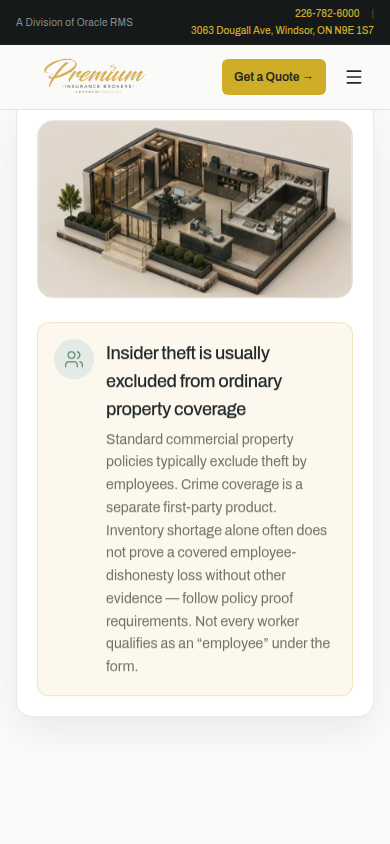
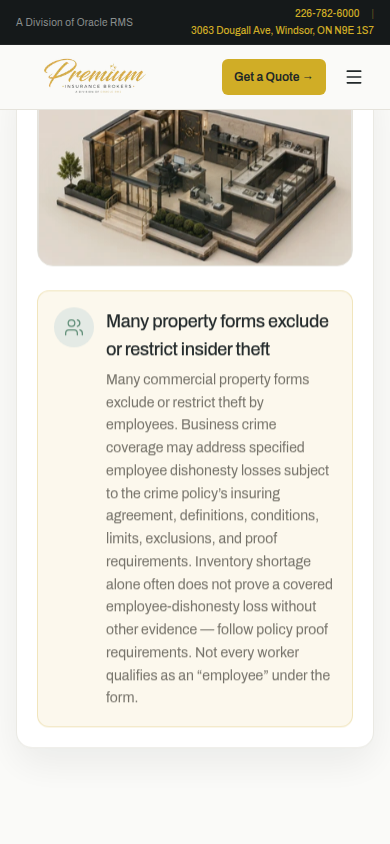
fix(final-d): precision copy tightening before freeze
- Crime: soften property-form generalization; remove permanent-employee
  assumption from employee-definition FAQ
- EPL: clarify severance FAQ — statutory pay vs insured allegations
- Product Recall: trigger/expense precision in hero, explorer detail,
  and product-liability coordination consideration
- Regenerate literal claim dump and final-D QA artifacts
- Update verifier detailTitle expectation for Crime explorer state 0

PRECISION BASE: 7ac909c

Changed region(s): [[0.0923, 0.1232, 0.9231, 0.8318]]

diff --git a/src/data/product-pages/commercial-products-specialty.ts b/src/data/product-pages/commercial-products-specialty.ts
@@ -1410,7 +1410,7 @@ export const commercialProductSpecialtyPages: ProductPageContent[] = [
       "Crime and fidelity insurance for Windsor-Essex businesses — employee dishonesty, forgery, money and securities, and computer fraud through an independent broker.",
     headline: "Crime & Fidelity Insurance",
     subhead:
-      "Crime & Fidelity Insurance can address specified first-party losses involving employee dishonesty, theft, forgery, fraud, money and securities, or related crime events — depending on the policy form and the insuring agreements you purchase. It is not a surety bond, not cyber insurance for privacy or ransomware response, and not a substitute for ordinary commercial property coverage on stock and buildings. Standard property forms typically exclude theft by employees; crime coverage is the product that may respond to certain insider and defined fraud losses when wording, definitions, limits, and proof requirements are met. Computer fraud and social-engineering / fraudulent-instruction losses are not necessarily treated the same way — many forms require separate or specific wording, endorsements, limits, or sublimits for voluntary payment schemes. Premium Insurance Brokers can help Windsor–Essex businesses compare crime agreements against cash handling, payroll, client funds, and payment controls.",
+      "Crime & Fidelity Insurance can address specified first-party losses involving employee dishonesty, theft, forgery, fraud, money and securities, or related crime events — depending on the policy form and the insuring agreements you purchase. It is not a surety bond, not cyber insurance for privacy or ransomware response, and not a substitute for ordinary commercial property coverage on stock and buildings. Many commercial property forms exclude or restrict theft by employees; business crime coverage may address specified employee dishonesty losses subject to the crime policy’s insuring agreement, definitions, conditions, limits, exclusions, and proof requirements. Computer fraud and social-engineering / fraudulent-instruction losses are not necessarily treated the same way — many forms require separate or specific wording, endorsements, limits, or sublimits for voluntary payment schemes. Premium Insurance Brokers can help Windsor–Essex businesses compare crime agreements against cash handling, payroll, client funds, and payment controls.",
     quoteHref: QUOTE_BUSINESS,
     quoteLabel: "Get a Crime Quote",
     coverageIntro:
@@ -1421,9 +1421,9 @@ export const commercialProductSpecialtyPages: ProductPageContent[] = [
         shortLabel: "Employee Theft",
         description:
           "May help address certain direct loss of money, securities, or property caused by employee theft or dishonesty — where purchased and subject to the policy’s employee definition, conditions, and exclusions.",
-        detailTitle: "Insider theft is usually excluded from ordinary property coverage",
+        detailTitle: "Many property forms exclude or restrict insider theft",
         detailDescription:
-          "Standard commercial property policies typically exclude theft by employees. Crime coverage is a separate first-party product. Inventory shortage alone often does not prove a covered employee-dishonesty loss without other evidence — follow policy proof requirements. Not every worker qualifies as an “employee” under the form.",
+          "Many commercial property forms exclude or restrict theft by employees. Business crime coverage may address specified employee dishonesty losses subject to the crime policy’s insuring agreement, definitions, conditions, limits, exclusions, and proof requirements. Inventory shortage alone often does not prove a covered employee-dishonesty loss without other evidence — follow policy proof requirements. Not every worker qualifies as an “employee” under the form.",
         icon: Users,
       },
       {
@@ -1526,7 +1526,7 @@ export const commercialProductSpecialtyPages: ProductPageContent[] = [
       {
         question: "Who counts as an employee under a crime policy?",
         answer:
-          "The policy definition controls. Permanent employees are usually included; independent contractors, leased workers, owners, directors, and certain volunteers may be excluded or need specific wording. If non-employees handle cash or payment instructions, disclose that structure when quoting.",
+          "The policy’s definition of “employee” controls. How permanent employees, temporary workers, leased workers, independent contractors, owners, directors, and volunteers are treated can vary by form — do not assume a universal list of included or excluded persons. If non-employees handle cash, property, or payment instructions, disclose that structure when quoting.",
       },
       {
         question: "What information is needed to quote crime coverage?",
@@ -1649,7 +1649,7 @@ export const commercialProductSpecialtyPages: ProductPageContent[] = [
       {
         question: "Does EPL pay ESA termination pay or severance?",
         answer:
-          "Not as a substitute for statutory wages. Ontario’s Employment Standards Act, 2000 can require termination pay and, where applicable, severance pay as employer obligations. EPL may respond to certain wrongful-dismissal or related allegations under policy wording — it does not automatically pay statutory termination pay, severance pay, unpaid wages, vacation pay, or benefits. Keep employment obligations distinct from insured claims.",
+          "EPL should not be treated as insurance for ordinary statutory or contractual pay obligations. Ontario’s Employment Standards Act, 2000 can require termination pay and, where applicable, severance pay as employer obligations regardless of insurance. Depending on policy wording, EPL may respond to certain covered allegations arising from employment decisions — including defence costs or covered damages where applicable — but it does not automatically pay statutory termination pay, severance pay, unpaid wages, vacation pay, or benefits. Keep employment obligations distinct from insured claims.",
       },
       {
         question: "What types of employment allegations may be insured?",

diff --git a/src/data/product-pages/commercial-products-industry.ts b/src/data/product-pages/commercial-products-industry.ts
@@ -781,7 +781,7 @@ export const commercialProductIndustryPages: ProductPageContent[] = [
       "Product recall insurance for Windsor-Essex manufacturers and distributors — recall and withdrawal expense coverage distinct from product liability, subject to policy triggers.",
     headline: "Product Recall Insurance",
     subhead:
-      "Product recall insurance addresses specified first-party recall or withdrawal costs — and other scheduled expenses — only where the policy trigger and selected coverage apply. It is not the same product as product liability insurance. Product liability generally addresses certain third-party bodily injury or property-damage claims arising from products, subject to policy wording. Recall insurance is about the operational cost of getting product out of the market when an insured event is met: notification, transportation, storage, disposal, and — only where included — replacement, consultant or lab fees, crisis management, brand rehabilitation, or limited business interruption. A voluntary withdrawal, a regulator-involved recall, or a customer demand does not automatically trigger coverage. In Canada, most food recalls are company-led actions with Canadian Food Inspection Agency oversight, and the Minister of Health may order a mandatory food recall in defined circumstances; consumer products may involve Health Canada authorities under the Canada Consumer Product Safety Act — regulatory involvement alone does not mean the insurance will respond. Premium Insurance Brokers can help Windsor–Essex manufacturers, importers, and distributors compare recall expense forms against product type, traceability, and supply-chain role.",
+      "Product recall insurance addresses specified first-party recall or withdrawal costs — and other scheduled expenses — only where the policy trigger and selected coverage apply. It is not the same product as product liability insurance. Product liability generally addresses certain third-party bodily-injury or property-damage claims arising from products, subject to policy wording. Product recall insurance may address specified withdrawal or recall expenses when the policy’s covered trigger and selected coverage apply — such as notification, transportation, storage, disposal, and — only where included — replacement, consultant or lab fees, crisis management, brand rehabilitation, or limited business interruption. Whether a voluntary or government-directed recall is insured depends on the policy’s covered trigger, definitions, exclusions, and selected coverage — a voluntary withdrawal, regulator-involved recall, or customer demand does not automatically trigger coverage. In Canada, most food recalls are company-led actions with Canadian Food Inspection Agency oversight, and the Minister of Health may order a mandatory food recall in defined circumstances; consumer products may involve Health Canada authorities under the Canada Consumer Product Safety Act — regulatory involvement alone does not mean the insurance will respond. Premium Insurance Brokers can help Windsor–Essex manufacturers, importers, and distributors compare recall expense forms against product type, traceability, and supply-chain role.",
     quoteHref: QUOTE_BUSINESS,
     quoteLabel: "Get a Recall Quote",
     coverageIntro:
@@ -794,7 +794,7 @@ export const commercialProductIndustryPages: ProductPageContent[] = [
           "May help with certain first-party expenses to notify, retrieve, store, and dispose of affected products after a covered recall or withdrawal event — subject to the policy trigger and exclusions.",
         detailTitle: "Pulling product is an operations problem before it is a liability lawsuit",
         detailDescription:
-          "Product liability addresses injury or damage claims. Recall expense coverage addresses the cost of getting product out of the market when the insured event is met — voluntary or regulator-involved actions do not automatically equal coverage. Confirm how the form defines the insured event, contaminated product, or malicious act.",
+          "Product liability generally addresses certain third-party bodily-injury or property-damage claims arising from products, subject to policy wording. Product recall insurance may address specified withdrawal or recall expenses when the policy’s covered trigger and selected coverage apply — whether a voluntary or government-directed recall is insured depends on the policy’s covered trigger, definitions, exclusions, and selected coverage. Confirm how the form defines the insured event, contaminated product, or malicious act.",
         icon: Package,
       },
       {
@@ -869,7 +869,7 @@ export const commercialProductIndustryPages: ProductPageContent[] = [
       {
         title: "Coordination with product liability limits",
         description:
-          "Recall expense coverage does not replace product liability for bodily injury or property-damage claims from products. Keep both conversations open when you manufacture or distribute consumer goods — and do not assume one policy pays the other’s loss categories.",
+          "Recall expense coverage does not replace product liability for certain third-party bodily-injury or property-damage claims arising from products, subject to policy wording. Keep both conversations open when you manufacture or distribute consumer goods — and do not assume one policy pays the other’s loss categories.",
       },
     ],
     relatedLinks: [

diff --git a/scripts/dump-final-d-literal-claims.ts b/scripts/dump-final-d-literal-claims.ts
@@ -417,7 +417,7 @@ Considerations emit TITLE: and BODY: on separate lines.
 
         if (m.path.endsWith(".q+a")) {
           faqChecked++;
-          if (!/^Q: .+\nA: .+/s.test(m.value) || /\nA:\s*$/m.test(m.value)) {
+          if (!/^Q: [\s\S]+\nA: [\s\S]+/.test(m.value) || /\nA:\s*$/m.test(m.value)) {
             faqIncomplete++;
           }
         }

diff --git a/docs/final-d-batch-implementation-2026-09-09.md b/docs/final-d-batch-implementation-2026-09-09.md
@@ -183,3 +183,142 @@ If totals had differed: would report why without manipulating classification. To
 - **DO NOT TOUCH THE PRIMARY CARRIER WORKTREE**
 
 **STOP FOR OWNER REVIEW**
+
+---
+
+## FINAL PRECISION FIX
+
+**Date:** 2026-09-09  
+**PRECISION BASE:** `7ac909c`  
+**Branch:** `cursor/coverage-explorer-ux-v2-2026-09-07`  
+**Worktree:** `/tmp/PREMIUM_WEBSITE-d3-transportation`
+
+Targeted visitor-facing copy tightening only — no page architecture, Explorer IDs, images, runtime, or scanner rule changes.
+
+### FILES CHANGED
+
+| File | Purpose |
+|------|---------|
+| `src/data/product-pages/commercial-products-specialty.ts` | Crime property/employee FAQ; EPL severance FAQ |
+| `src/data/product-pages/commercial-products-industry.ts` | Product Recall trigger/expense precision |
+| `scripts/dump-final-d-literal-claims.ts` | ES2018 regex flag fix (enables dump regeneration under tsc) |
+| `scripts/verify-final-d-batch.cjs` | Updated Crime explorer detailTitle expectation |
+| `docs/qa-screenshots/final-d-batch-2026-09-09/literal-claim-dump.txt` | Regenerated source-data literal dump |
+| `docs/qa-screenshots/final-d-batch-2026-09-09/verification.json` | Regenerated verifier output |
+| `docs/final-d-batch-implementation-2026-09-09.md` | This section |
+
+**Not committed:** `docs/qa-screenshots/coverage-explorer-ux-v2-2026-09-07/restaurant-desktop_1440.png`
+
+### FIELDS CHANGED BY ROUTE
+
+#### CRIME (`/crime-fidelity-insurance/`)
+
+| Field | Complete current value |
+|-------|------------------------|
+| `subhead` | Crime & Fidelity Insurance can address specified first-party losses involving employee dishonesty, theft, forgery, fraud, money and securities, or related crime events — depending on the policy form and the insuring agreements you purchase. It is not a surety bond, not cyber insurance for privacy or ransomware response, and not a substitute for ordinary commercial property coverage on stock and buildings. Many commercial property forms exclude or restrict theft by employees; business crime coverage may address specified employee dishonesty losses subject to the crime policy’s insuring agreement, definitions, conditions, limits, exclusions, and proof requirements. Computer fraud and social-engineering / fraudulent-instruction losses are not necessarily treated the same way — many forms require separate or specific wording, endorsements, limits, or sublimits for voluntary payment schemes. Premium Insurance Brokers can help Windsor–Essex businesses compare crime agreements against cash handling, payroll, client funds, and payment controls. |
+| `coverageTypes[0].detailTitle` | Many property forms exclude or restrict insider theft |
+| `coverageTypes[0].detailDescription` | Many commercial property forms exclude or restrict theft by employees. Business crime coverage may address specified employee dishonesty losses subject to the crime policy’s insuring agreement, definitions, conditions, limits, exclusions, and proof requirements. Inventory shortage alone often does not prove a covered employee-dishonesty loss without other evidence — follow policy proof requirements. Not every worker qualifies as an “employee” under the form. |
+| `faqItems[3].answer` | The policy’s definition of “employee” controls. How permanent employees, temporary workers, leased workers, independent contractors, owners, directors, and volunteers are treated can vary by form — do not assume a universal list of included or excluded persons. If non-employees handle cash, property, or payment instructions, disclose that structure when quoting. |
+
+#### D&O (`/directors-officers-insurance/`)
+
+No visitor-facing fields changed — existing Side A/B/C and defence-cost wording already met precision standards.
+
+#### EPL (`/employment-practices-liability-insurance/`)
+
+| Field | Complete current value |
+|-------|------------------------|
+| `faqItems[0].answer` | EPL should not be treated as insurance for ordinary statutory or contractual pay obligations. Ontario’s Employment Standards Act, 2000 can require termination pay and, where applicable, severance pay as employer obligations regardless of insurance. Depending on policy wording, EPL may respond to certain covered allegations arising from employment decisions — including defence costs or covered damages where applicable — but it does not automatically pay statutory termination pay, severance pay, unpaid wages, vacation pay, or benefits. Keep employment obligations distinct from insured claims. |
+
+#### PRODUCT RECALL (`/product-recall-insurance/`)
+
+| Field | Complete current value |
+|-------|------------------------|
+| `subhead` | Product recall insurance addresses specified first-party recall or withdrawal costs — and other scheduled expenses — only where the policy trigger and selected coverage apply. It is not the same product as product liability insurance. Product liability generally addresses certain third-party bodily-injury or property-damage claims arising from products, subject to policy wording. Product recall insurance may address specified withdrawal or recall expenses when the policy’s covered trigger and selected coverage apply — such as notification, transportation, storage, disposal, and — only where included — replacement, consultant or lab fees, crisis management, brand rehabilitation, or limited business interruption. Whether a voluntary or government-directed recall is insured depends on the policy’s covered trigger, definitions, exclusions, and selected coverage — a voluntary withdrawal, regulator-involved recall, or customer demand does not automatically trigger coverage. In Canada, most food recalls are company-led actions with Canadian Food Inspection Agency oversight, and the Minister of Health may order a mandatory food recall in defined circumstances; consumer products may involve Health Canada authorities under the Canada Consumer Product Safety Act — regulatory involvement alone does not mean the insurance will respond. Premium Insurance Brokers can help Windsor–Essex manufacturers, importers, and distributors compare recall expense forms against product type, traceability, and supply-chain role. |
+| `coverageTypes[0].detailDescription` | Product liability generally addresses certain third-party bodily-injury or property-damage claims arising from products, subject to policy wording. Product recall insurance may address specified withdrawal or recall expenses when the policy’s covered trigger and selected coverage apply — whether a voluntary or government-directed recall is insured depends on the policy’s covered trigger, definitions, exclusions, and selected coverage. Confirm how the form defines the insured event, contaminated product, or malicious act. |
+| `considerations[7].description` | Recall expense coverage does not replace product liability for certain third-party bodily-injury or property-damage claims arising from products, subject to policy wording. Keep both conversations open when you manufacture or distribute consumer goods — and do not assume one policy pays the other’s loss categories. |
+
+### LITERAL PROOF RESULTS
+
+#### CRIME
+
+| Check | Result |
+|-------|--------|
+| Exact phrase: `Standard commercial property policies typically exclude theft by employees` | **NO** |
+| Exact phrase: `Permanent employees are usually included` | **NO** |
+| Concept: crime page says social engineering automatically equals computer fraud | **NO** |
+
+#### D&O
+
+| Check | Result |
+|-------|--------|
+| Concept: Side C universally covers the entity/company | **NO** |
+| Concept: defence costs are universally outside limits | **NO** |
+| Concept: defence costs universally erode limits | **NO** |
+
+#### EPL
+
+| Check | Result |
+|-------|--------|
+| Concept: EPL automatically pays statutory termination/severance obligations | **NO** |
+| Concept: EPL automatically pays wages/vacation/benefits | **NO** |
+| Concept: Ontario employment statutes themselves determine insurance coverage | **NO** |
+
+#### PRODUCT RECALL
+
+| Check | Result |
+|-------|--------|
+| Concept: every recall triggers insurance | **NO** |
+| Concept: voluntary recall automatically triggers insurance | **NO** |
+| Concept: government-directed/mandatory recall automatically triggers insurance | **NO** |
+| Concept: replacement costs universally included | **NO** |
+| Concept: testing/lab/consultant costs universally included | **NO** |
+| Concept: brand rehabilitation universally included | **NO** |
+| Concept: business interruption/lost profit universally included | **NO** |
+
+*Note:* Product Recall retains accurate regulatory context (“mandatory food recall in defined circumstances”) with explicit qualifier that regulatory involvement alone does not mean insurance responds. Audit LOW retained (1 low only on hero — regulatory accuracy preserved).
+
+### VALIDATION
+
+| Check | Result |
+|-------|--------|
+| **BUILD** | PASS |
+| **TSC** | PASS |
+| **CONTENT AUDIT** | **A24 / B16 / C18 / D0** |
+| **EXPLORER REGRESSION** | PASS (`verify-coverage-explorer-ux-v2.cjs`) |
+| **FINAL-D VERIFIER** | PASS (4/4 routes, 0 console errors) |
+| **LITERAL DUMP** | Regenerated — FAQ answers complete (62 blocks, 0 blank); considerations separated |
+
+#### Per-route audit (post-fix)
+
+| Route | Grade | HIGH | MEDIUM | LOW |
+|-------|-------|------|--------|-----|
+| Crime & Fidelity | **A** | 0 | 0 | 0 |
+| D&O | **A** | 0 | 0 | 0 |
+| EPL | **A** | 0 | 0 | 0 |
+| Product Recall | **A** | 0 | 0 | 1 |
+
+**SITE TOTAL:** A **24** / B **16** / C **18** / D **0**
+
+### REGRESSION SAFETY
+
+| Check | Result |
+|-------|--------|
+| ALL 16 EXPLORER IDS PRESERVED | **YES** |
+| CRIME STATES | **4** |
+| D&O STATES | **4** |
+| EPL STATES | **4** |
+| PRODUCT RECALL STATES | **4** |
+| EXPLORER IMAGES CHANGED | **NO** |
+| EXPLORER RUNTIME CHANGED | **NO** |
+| FROZEN ROUTES OUTSIDE FINAL-D BATCH CHANGED | **NO** |
+| TRANSPORTATION CHANGED | **NO** |
+| CONSTRUCTION BATCH CHANGED | **NO** |
+| RESTAURANT CHANGED | **NO** |
+| SCANNER RULES CHANGED | **NO** |
+
+### READY TO FREEZE
+
+**YES** — pending owner review of precision edits and literal proof.
+
+**STOP FOR OWNER REVIEW**

diff --git a/docs/product-content-audit-2026-09-07.md b/docs/product-content-audit-2026-09-07.md
@@ -52,12 +52,12 @@
 | /contractors-insurance/ | 1025 | 4 / specific/hedged (strong) | Yes (388w, specific/useful) | 5 | Yes | 0 | Windsor-Essex-primary | **A** |
 | /convenience-store-insurance/ | 1141 | 4 / specific/hedged (strong) | Yes (371w, specific/useful) | 5 | Yes | 0 | Windsor-Essex-primary | **A** |
 | /cottage-insurance/ | 555 | 4 / specific/hedged (strong) | Yes (108w, specific/useful) | 4 | Yes | 0 | Windsor-Essex-primary | **B** |
-| /crime-fidelity-insurance/ | 1175 | 4 / specific/hedged (strong) | Yes (399w, specific/useful) | 5 | Yes | 0 | Windsor-Essex-primary | **A** |
+| /crime-fidelity-insurance/ | 1189 | 4 / specific/hedged (strong) | Yes (399w, specific/useful) | 5 | Yes | 0 | Windsor-Essex-primary | **A** |
 | /cyber-insurance/ | 409 | 4 / specific/hedged (strong) | Yes (67w, moderate) | 4 | Yes | 0 | Windsor-Essex-primary | **B** |
 | /daycare-private-school-insurance/ | 956 | 6 / specific/hedged (strong) | Yes (186w, moderate) | 5 | Yes | 0 | Windsor-Essex + Ontario | **A** |
 | /directors-officers-insurance/ | 1054 | 4 / specific/hedged (strong) | Yes (296w, specific/useful) | 5 | Yes | 0 | Windsor-Essex-primary | **A** |
 | /dump-truck-insurance/ | 1075 | 4 / specific/hedged (strong) | Yes (322w, specific/useful) | 5 | Yes | 0 | Windsor-Essex + Ontario | **A** |
-| /employment-practices-liability-insurance/ | 983 | 4 / specific/hedged (strong) | Yes (322w, specific/useful) | 5 | Yes | 0 | Windsor-Essex + Ontario | **A** |
+| /employment-practices-liability-insurance/ | 1006 | 4 / specific/hedged (strong) | Yes (322w, specific/useful) | 5 | Yes | 0 | Windsor-Essex + Ontario | **A** |
 | /event-liability-insurance/ | 1094 | 4 / specific/hedged (strong) | Yes (329w, specific/useful) | 5 | Yes | 0 | Windsor-Essex-primary | **A** |
 | /farm-insurance/ | 332 | 4 / specific (good) | No | 4 | Yes | 0 | Windsor-Essex-primary (local) | **C** |
 | /fitness-gym-insurance/ | 240 | 4 / specific (good) | No | 4 | Yes | 0 | Windsor-Essex-primary | **C** |
@@ -81,7 +81,7 @@
 | /personal-umbrella-insurance/ | 472 | 4 / specific/hedged (strong) | Yes (95w, moderate) | 4 | Yes | 0 | Windsor-Essex-primary | **B** |
 | /pharmacy-insurance/ | 1430 | 4 / specific/hedged (strong) | Yes (553w, specific/useful) | 5 | Yes | 1 (low only) | Windsor-Essex + Ontario | **A** |
 | /pollution-liability-insurance/ | 252 | 4 / specific (good) | No | 4 | Yes | 0 | Windsor-Essex-primary | **C** |
-| /product-recall-insurance/ | 1068 | 4 / specific/hedged (strong) | Yes (337w, specific/useful) | 5 | Yes | 1 (low only) | Windsor-Essex-primary | **A** |
+| /product-recall-insurance/ | 1093 | 4 / specific/hedged (strong) | Yes (343w, specific/useful) | 5 | Yes | 1 (low only) | Windsor-Essex-primary | **A** |
 | /professional-liability-insurance/ | 391 | 4 / specific (good) | Yes (66w, moderate) | 4 | Yes | 1 (low only) | Windsor-Essex-primary | **C** |
 | /professional-offices-insurance/ | 325 | 4 / specific (good) | No | 4 | No — Shares 2+ FAQ pattern with auto-insurance | 0 | Windsor-Essex-primary | **C** |
 | /property-management-insurance/ | 1174 | 4 / specific/hedged (strong) | Yes (378w, specific/useful) | 5 | Yes | 0 | Windsor-Essex + Ontario | **A** |
